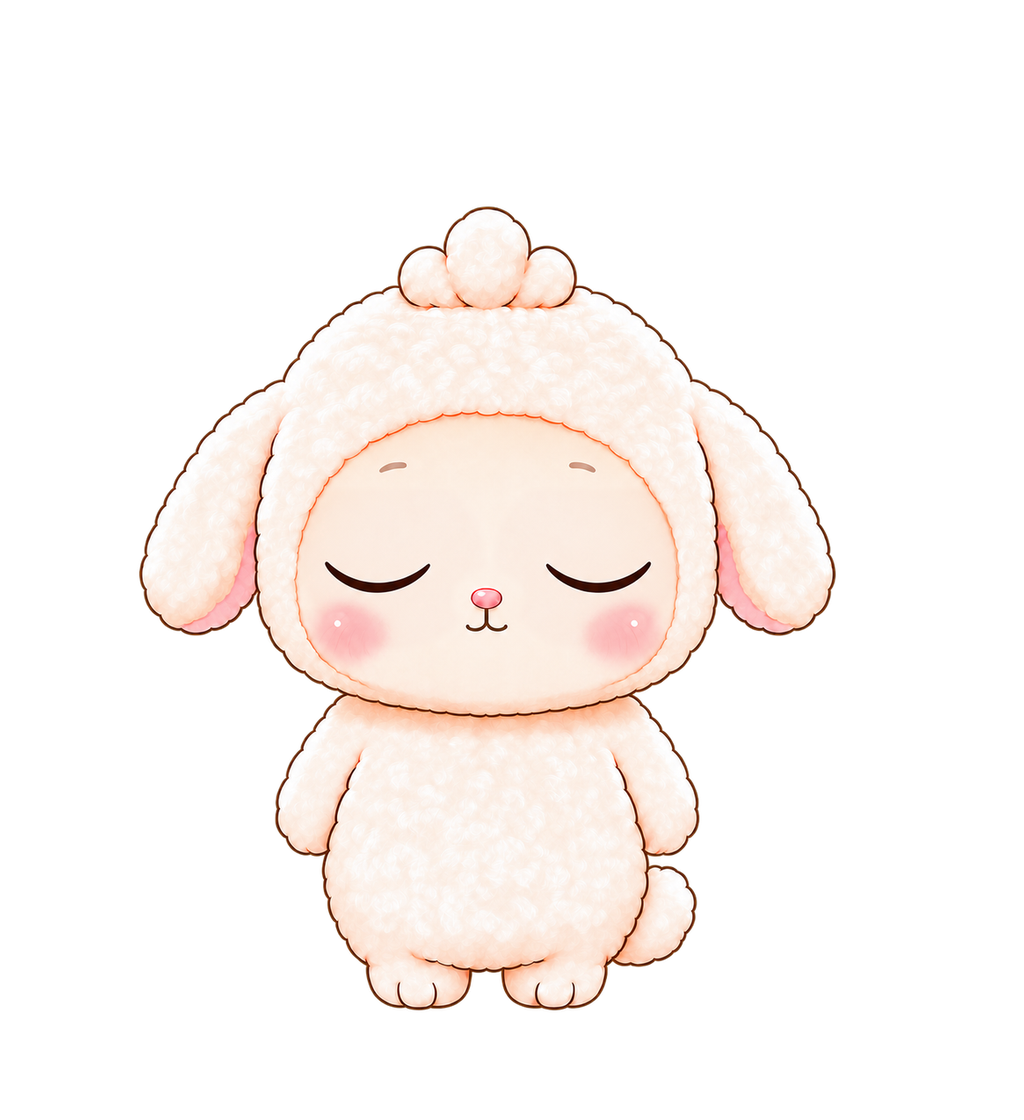
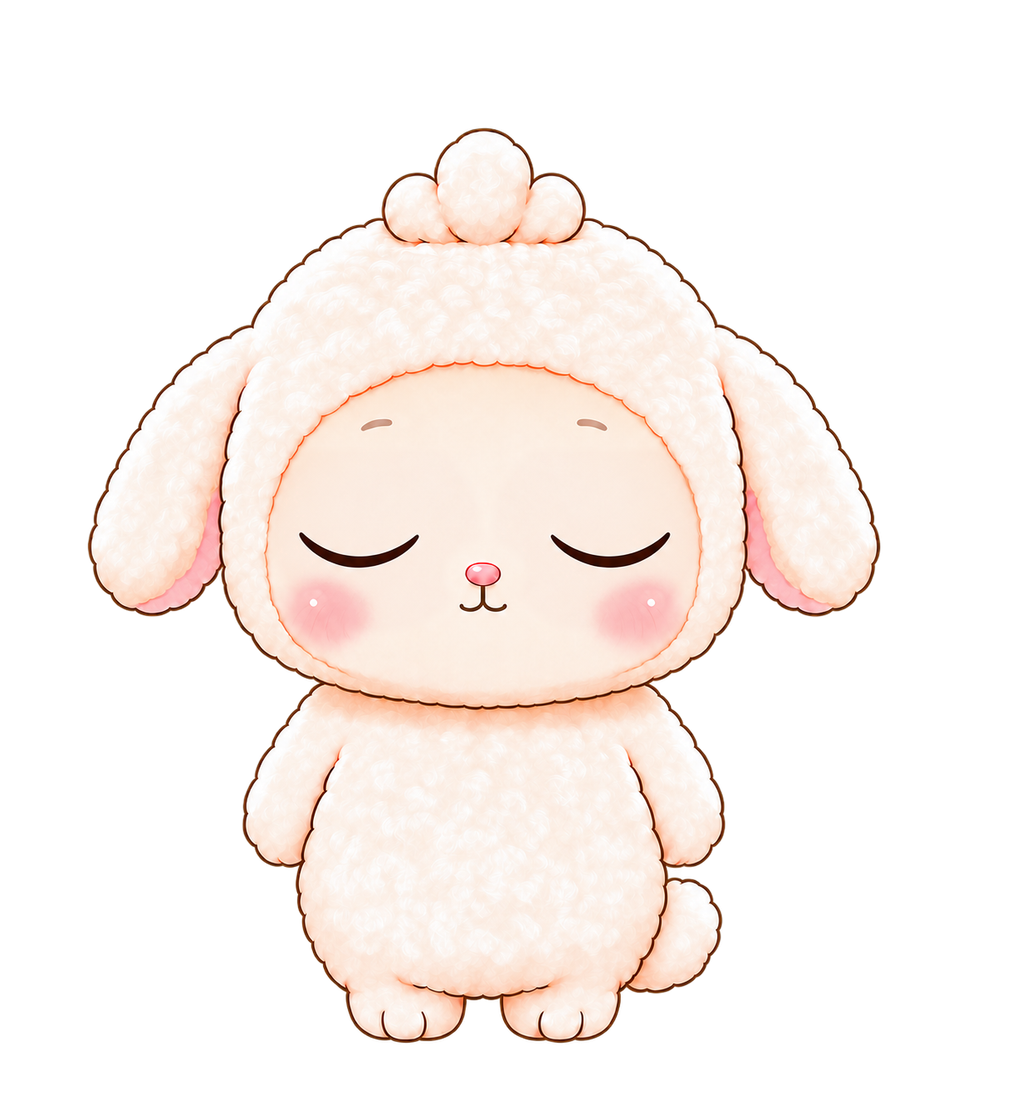
Improve mini Maro clarity, align poses, and follow scrolling safely

diff --git a/mini-maro-space.js b/mini-maro-space.js
@@ -1,0 +1,158 @@
+const MARGIN = 8;
+const GRID = 24;
+const clamp = (value, min, max) => Math.max(min, Math.min(max, value));
+const distance = (a, b) => Math.hypot(a.x - b.x, a.y - b.y);
+export function canStand(point, obstacles, viewport, size) {
+  if (!point || point.x < MARGIN || point.y < MARGIN || point.x + size.width > viewport.width - MARGIN || point.y + size.height > viewport.height - MARGIN) return false;
+  return !obstacles.some(r => point.x < r.right && point.x + size.width > r.left && point.y < r.bottom && point.y + size.height > r.top);
+}
+export function clearPath(a, b, obstacles, viewport, size) {
+  if (!canStand(a, obstacles, viewport, size) || !canStand(b, obstacles, viewport, size)) return false;
+  // Sweep the entire character rectangle, including between animation frames.
+  return !obstacles.some(r => {
+    const box = {left:r.left - size.width, right:r.right, top:r.top - size.height, bottom:r.bottom};
+    let enter = 0, leave = 1;
+    for (const [axis, min, max] of [['x',box.left,box.right],['y',box.top,box.bottom]]) {
+      const delta = b[axis] - a[axis];
+      if (Math.abs(delta) < 0.0001) {if (a[axis] <= min || a[axis] >= max) return false;}
+      else {const one=(min-a[axis])/delta, two=(max-a[axis])/delta;enter=Math.max(enter,Math.min(one,two));leave=Math.min(leave,Math.max(one,two));if(enter>=leave)return false;}
+    }
+    return enter < leave;
+  });
+}
+function axisPoints(max, extras) {
+  if (max < MARGIN) return [];
+  const points = [MARGIN,max,...extras.map(value => clamp(value,MARGIN,max))];
+  for (let value=MARGIN+GRID; value<max; value+=GRID) points.push(value);
+  return [...new Set(points)].sort((a,b)=>a-b);
+}
+export function safeRoute(start, preferred, obstacles, viewport, size) {
+  const xs=axisPoints(viewport.width-size.width-MARGIN,[start.x,preferred.x]);
+  const ys=axisPoints(viewport.height-size.height-MARGIN,[start.y,preferred.y]);
+  const nodes=xs.flatMap((x,xi)=>ys.map((y,yi)=>({x,y,xi,yi})));
+  const free=nodes.map(node=>canStand(node,obstacles,viewport,size));
+  if(!canStand(start,obstacles,viewport,size)) {
+    const available=nodes.filter((_,index)=>free[index]);
+    available.sort((a,b)=>distance(a,start)-distance(b,start));
+    return available.length?{position:available[0],path:[],relocated:true}:null;
+  }
+  const first=nodes.findIndex(node=>node.x===start.x&&node.y===start.y);
+  if(first<0)return null;
+  const parents=new Map([[first,-1]]),queue=[first];let best=first;
+  for(let cursor=0;cursor<queue.length;cursor++){
+    const id=queue[cursor],current=nodes[id];
+    if(distance(current,preferred)<distance(nodes[best],preferred))best=id;
+    for(const [dx,dy] of [[0,-1],[0,1],[-1,0],[1,0],[-1,-1],[-1,1],[1,-1],[1,1]]){
+      const xi=current.xi+dx,yi=current.yi+dy;
+      if(xi<0||yi<0||xi>=xs.length||yi>=ys.length)continue;
+      const next=xi*ys.length+yi;
+      if(parents.has(next)||!free[next]||!clearPath(current,nodes[next],obstacles,viewport,size))continue;
+      parents.set(next,id);queue.push(next);
+    }
+  }
+  const path=[];
+  for(let id=best;id!==first&&id!==-1;id=parents.get(id))path.unshift({x:nodes[id].x,y:nodes[id].y});
+  // Remove grid corners when the direct, swept route is also clear.
+  const smooth=[];let from=start;
+  while(path.length){let far=path.length-1;while(far>0&&!clearPath(from,path[far],obstacles,viewport,size))far--;from=path[far];smooth.push(from);path.splice(0,far+1);}
+  return {position:start,path:smooth,relocated:false};
+}
+
+export function collectObstacles(root, character, viewport) {
+  const rectangles=[];
+  const excluded=node=>character.contains(node)||node.closest?.('.mini-maro-home,script,style,noscript,template');
+  const add=rect=>{if(rect.width<=0||rect.height<=0||rect.right<0||rect.left>viewport.width||rect.bottom<0||rect.top>viewport.height)return;
+    rectangles.push({left:rect.left-6,right:rect.right+6,top:rect.top-6,bottom:rect.bottom+6});};
+  const walker=document.createTreeWalker(root,NodeFilter.SHOW_TEXT);
+  const range=document.createRange();
+  while(walker.nextNode()){
+    const node=walker.currentNode;
+    if(!node.textContent.trim()||excluded(node.parentElement))continue;
+    range.selectNodeContents(node);
+    for(const rect of range.getClientRects())add(rect);
+  }
+  for(const node of root.querySelectorAll('img,video,canvas,iframe,svg,button,input,select,textarea,a,[role="button"],[role="tab"],[data-mini-maro-avoid],.guide-navigation')){
+    if(excluded(node))continue;
+    for(const rect of node.getClientRects())add(rect);
+  }
+  // Future photos may be CSS backgrounds rather than <img> elements.
+  for(const node of root.querySelectorAll('*')){
+    if(excluded(node))continue;
+    const rect=node.getBoundingClientRect();
+    if(rect.width<=0||rect.height<=0||rect.right<0||rect.left>viewport.width||rect.bottom<0||rect.top>viewport.height)continue;
+    if(getComputedStyle(node).backgroundImage!=='none')add(rect);
+  }
+  return rectangles;
+}
+
+export function createMaroFollower({button,home,onVisibility,onMoving,onNeedWalk,canMove}) {
+  const size={width:80,height:88};
+  const events=new AbortController();
+  let position,obstacles=[],viewport,raf=0,wakeTimer=0,dirty=true,following=false,visible=false,destroyed=false;
+  let path=[],speed=0,lastFrame=0,followAfter=0,lastScroll=-Infinity,lastScrollY=window.scrollY,scrollDirection='right';
+  let scrollOffset=0,offsetUntil=0,blockedAt=null;
+  const preferred=()=>({x:viewport.width-size.width-20,y:clamp(viewport.height-size.height-80+scrollOffset,8,viewport.height-size.height-8)});
+  const show=value=>{button.dataset.safe=String(value);if(visible===value)return;visible=value;onVisibility(value);};
+  const queue=()=>{if(!destroyed&&!raf)raf=requestAnimationFrame(step);};
+  const refresh=()=>{dirty=true;button.dataset.safe='false';queue();};
+  const place=()=>{
+    const density=window.devicePixelRatio||1;
+    button.style.left=`${Math.round(position.x*density)/density}px`;
+    button.style.top=`${Math.round(position.y*density)/density}px`;
+  };
+  const later=delay=>{clearTimeout(wakeTimer);wakeTimer=setTimeout(queue,Math.max(16,delay));};
+  function step(now) {
+    raf=0;
+    if(destroyed||document.hidden){show(false);onMoving(false);return;}
+    viewport={width:document.documentElement.clientWidth,height:window.innerHeight};
+    if(scrollOffset&&now>=offsetUntil){scrollOffset=0;path=[];}
+    if(dirty){obstacles=collectObstacles(document.body,button,viewport);dirty=false;path=[];}
+    if(!position){const rect=home.getBoundingClientRect();position={x:rect.left,y:rect.top};}
+    const target=preferred();
+    if(!canStand(position,obstacles,viewport,size)){
+      show(false);onMoving(false);speed=0;
+      if(blockedAt===null)blockedAt=now;
+      if(now<blockedAt+180){later(blockedAt+180-now);return;}
+      if(now<followAfter){later(followAfter-now);return;}
+      const route=safeRoute(position,target,obstacles,viewport,size);
+      if(!route)return;
+      position={x:route.position.x,y:route.position.y};path=[];
+    }
+    blockedAt=null;
+    place();show(true);
+    if(!following){onMoving(false);return;}
+    if(now<followAfter){onMoving(false);later(followAfter-now);return;}
+    if(!canMove()){onMoving(false);return;}
+    if(!path.length){const route=safeRoute(position,target,obstacles,viewport,size);path=route?.path||[];}
+    if(!path.length){onMoving(false);speed=0;lastFrame=now;if(scrollOffset)later(offsetUntil-now);return;}
+    if(matchMedia('(prefers-reduced-motion: reduce)').matches){show(false);onMoving(false);return;}
+    const dt=lastFrame?Math.max(0,Math.min(0.04,(now-lastFrame)/1000)):1/60;lastFrame=now;
+    speed=Math.min(115,speed+dt*380);
+    const next=path[0],remaining=distance(position,next);
+    const travel=Math.min(remaining,speed*dt);
+    const candidate={x:position.x+(next.x-position.x)*travel/Math.max(remaining,0.001),y:position.y+(next.y-position.y)*travel/Math.max(remaining,0.001)};
+    if(!clearPath(position,candidate,obstacles,viewport,size)){refresh();onMoving(false);return;}
+    const direction=candidate.x<position.x-0.01?'left':candidate.x>position.x+0.01?'right':scrollDirection;
+    position=candidate;place();onMoving(true,direction);
+    if(remaining<=travel+0.01)path.shift();
+    queue();
+  }
+  const scroll=()=>{
+    const now=performance.now(),delta=window.scrollY-lastScrollY;lastScrollY=window.scrollY;
+    if(delta)scrollDirection=delta<0?'left':'right';
+    if(now-lastScroll>220)followAfter=now+180;
+    lastScroll=now;following=true;onNeedWalk();
+    scrollOffset=clamp(scrollOffset-delta*0.35,-96,96);offsetUntil=now+1000;
+    refresh();
+  };
+  window.addEventListener('scroll',scroll,{capture:true,passive:true,signal:events.signal});
+  window.addEventListener('resize',refresh,{passive:true,signal:events.signal});
+  document.addEventListener('load',refresh,{capture:true,signal:events.signal});
+  document.addEventListener('visibilitychange',refresh,{signal:events.signal});
+  const mutations=new MutationObserver(records=>{if(records.some(record=>!button.contains(record.target)&&record.target!==home))refresh();});
+  mutations.observe(document.body,{subtree:true,childList:true,characterData:true,attributes:true,attributeFilter:['class','style','hidden','open','src','width','height']});
+  const resize=new ResizeObserver(refresh);resize.observe(document.body);resize.observe(document.getElementById('content')||document.body);
+  document.fonts?.addEventListener('loadingdone',refresh,{signal:events.signal});
+  queue();
+  return {refresh,destroy(){destroyed=true;cancelAnimationFrame(raf);clearTimeout(wakeTimer);events.abort();mutations.disconnect();resize.disconnect();show(false);}};
+}

diff --git a/mini-maro.js b/mini-maro.js
@@ -1,4 +1,5 @@
 import {PET_ENTRY, PET_RETURN, duration, frameAt, idleMotion} from './mini-maro-motion.js';
+import {createMaroFollower} from './mini-maro-space.js?v=follow-14';
 
 const ROOT = new URL('./assets/mini-maro/', import.meta.url);
 const SHEETS = {standing:'standing.webp', pet:'banzai.webp', heart:'heart.webp', 'high-five':'high-five.webp'};
@@ -9,7 +10,8 @@ export function createMiniMaro({random = Math.random, idleDelay = () => 20000 + 
   // Decide once per document, including history restores. A page without Maro loads no artwork.
   const selected = random() < 0.35;
   const images = new Map();
-  let button, canvas, ctx, host, events, observer, timer, raf, blinkTimer, blinkRaf, blinkImages, kind = 'standing';
+  let button, canvas, ctx, host, home, events, follower, timer, raf, blinkTimer, blinkRaf, blinkImages, kind = 'standing';
+  let walkImages, walkLoading, walkDirection='right';
   let generation = 0, mountGeneration = 0, inView = false, ready = false, started = 0, petHoldUntil = 0, motion;
   const image = path => {
     if (!images.has(path)) {
@@ -25,12 +27,27 @@ export function createMiniMaro({random = Math.random, idleDelay = () => 20000 + 
   const active = () => ready && button?.isConnected && inView && !document.hidden;
   const draw = (state, frame = 0) => {
     if (!ctx) return;
+    // Render once at the screen's actual pixel density. A large fixed canvas
+    // shrunk again by CSS loses fine fur and face lines with low-quality sampling.
+    const bounds = canvas.getBoundingClientRect();
+    const density = Math.min(6, Math.max(1, window.devicePixelRatio || 1));
+    const width = Math.max(1, Math.round(bounds.width * density));
+    const height = Math.max(1, Math.round(bounds.height * density));
+    if (canvas.width !== width || canvas.height !== height) {
+      canvas.width = width; canvas.height = height;
+      ctx.setTransform(width / 512, 0, 0, height / 560, 0, 0);
+      ctx.imageSmoothingEnabled = true;
+      ctx.imageSmoothingQuality = 'high';
+    }
     ctx.clearRect(0, 0, 512, 560);
     if (state === 'blink') {
       ctx.drawImage(blinkImages[frame], 0, 0, 512, 560);
     } else if (state === 'cheek') {
-      // Same whole-cel registration as the adopted room animation, aligned to the 512px body.
-      ctx.drawImage(motion.images.get(frame), -38, -2, 560, 560);
+      // A fixed whole-body registration: same crown, face midpoint and soles as standing.
+      ctx.drawImage(motion.images.get(frame), -35.208, 11.970, 554.991, 554.991);
+    } else if (state === 'walk') {
+      // Undo the native overlay's common registration margin, without warping the body.
+      ctx.drawImage(walkImages[walkDirection][frame], -35.271111, -53.495935, 582.542222, 637.398374);
     } else {
       ctx.drawImage(motion?.image && state !== 'standing' ? motion.image : standingImage,
         frame * 512, 0, 512, 560, 0, 0, 512, 560);
@@ -53,7 +70,7 @@ export function createMiniMaro({random = Math.random, idleDelay = () => 20000 + 
       blinkTimer = 0;
       const token = generation;
       try {
-        const [half, closed] = await Promise.all([image('blink-half.webp'), image('blink-closed.webp')]);
+        const [half, closed] = await Promise.all([image('standing-blink-half.webp'), image('standing-blink-closed.webp')]);
         if (token !== generation || !active() || kind !== 'standing') return;
         blinkImages = {half, closed};
         const began = performance.now();
@@ -76,14 +93,15 @@ export function createMiniMaro({random = Math.random, idleDelay = () => 20000 + 
   };
   const tick = now => {
     if (!active()) {rest(); return;}
-    const elapsed = now - started;
+    const elapsed = Math.max(0, now - started);
     const reduced = matchMedia('(prefers-reduced-motion: reduce)').matches;
     let frame;
-    if (reduced) frame = elapsed < 1800 ? ({pet:7, heart:5, 'high-five':5, cheek:'happy_full'})[kind] : null;
+    if (kind === 'walk') frame = Math.floor(elapsed / 120) % 8;
+    else if (reduced) frame = elapsed < 1800 ? ({pet:7, heart:5, 'high-five':5, cheek:'happy_full'})[kind] : null;
     else if (kind === 'pet') frame = elapsed < ENTRY_MS ? frameAt(PET_ENTRY, elapsed)
       : now < petHoldUntil ? 7 : frameAt(PET_RETURN, now - petHoldUntil);
     else frame = frameAt(motion.timeline, elapsed);
-    if (frame === null) {rest(); return;}
+    if (frame === null) {rest(); follower?.refresh(); return;}
     draw(kind, frame); raf = requestAnimationFrame(tick);
   };
   async function play(next) {
@@ -105,7 +123,7 @@ export function createMiniMaro({random = Math.random, idleDelay = () => 20000 + 
     }
   }
   const activity = () => {
-    if (kind !== 'standing' && kind !== 'pet') rest();
+    if (kind !== 'standing' && kind !== 'pet' && kind !== 'walk') rest();
     else schedule();
   };
   const pet = () => {
@@ -115,11 +133,26 @@ export function createMiniMaro({random = Math.random, idleDelay = () => 20000 + 
     }
     if (kind !== 'pet') void play({kind:'pet'});
   };
+  async function prepareWalk() {
+    if(walkImages||walkLoading)return;
+    walkLoading=Promise.all(['left','right'].map(async direction=>[direction,await Promise.all(
+      Array.from({length:8},(_,index)=>image(`walk/${direction}_${String(index+1).padStart(2,'0')}.webp`))
+    )]));
+    try {walkImages=Object.fromEntries(await walkLoading);}
+    catch { /* Retry on a later scroll; standing artwork remains available. */ }
+    finally {walkLoading=null;follower?.refresh();}
+  }
+  const walking = (moving,direction) => {
+    if(!moving){if(kind==='walk')rest();return;}
+    if(!walkImages||kind==='pet')return;
+    walkDirection=direction;
+    if(kind!=='walk'){cancel();kind='walk';motion=null;started=performance.now();raf=requestAnimationFrame(tick);}
+  };
   function unmount() {
     mountGeneration++;
-    cancel(); ready = false; inView = false; events?.abort(); observer?.disconnect();
-    host?.classList.remove('mini-maro-host'); button?.remove();
-    button = canvas = ctx = host = null; kind = 'standing'; motion = null;
+    cancel(); ready = false; inView = false; events?.abort(); follower?.destroy();follower=null;
+    host?.classList.remove('mini-maro-host'); home?.remove();button?.remove();
+    button = canvas = ctx = host = home = null; kind = 'standing'; motion = null;
   }
   async function mount(content) {
     unmount();
@@ -131,23 +164,25 @@ export function createMiniMaro({random = Math.random, idleDelay = () => 20000 + 
     button.setAttribute('aria-label', 'みにまろちゃんをなでなでする');
     button.dataset.motion = 'loading';
     canvas = document.createElement('canvas'); canvas.width = 512; canvas.height = 560; canvas.setAttribute('aria-hidden','true');
-    button.append(canvas); host.append(button); host.classList.add('mini-maro-host');
+    home=document.createElement('span');home.className='mini-maro-home';home.setAttribute('aria-hidden','true');
+    button.append(canvas);host.append(home);document.body.append(button);host.classList.add('mini-maro-host');
     ctx = canvas.getContext('2d');
     events = new AbortController();
     button.addEventListener('click', pet, {signal:events.signal});
     for (const event of ['pointerdown','pointermove','keydown','scroll'])
       window.addEventListener(event, activity, {passive:true, signal:events.signal});
+    window.addEventListener('resize', () => {
+      if (ready) draw(button.dataset.motion, kind === 'cheek' || button.dataset.motion === 'blink'
+        ? button.dataset.frame : Number(button.dataset.frame));
+    }, {signal:events.signal});
     document.addEventListener('visibilitychange', () => {if (document.hidden) rest(); else {schedule(); scheduleBlink();}}, {signal:events.signal});
     window.addEventListener('pagehide', rest, {signal:events.signal});
-    observer = new IntersectionObserver(entries => {
-      inView = entries[0].isIntersecting;
-      if (!inView) rest(); else {schedule(); scheduleBlink();}
-    });
-    observer.observe(button);
     try {
       standingImage = await image(SHEETS.standing);
       if (token !== mountGeneration) return;
       ready = true; button.dataset.ready = 'true'; draw('standing'); schedule(); scheduleBlink();
+      follower=createMaroFollower({button,home,onNeedWalk:()=>{void prepareWalk();},canMove:()=>!!walkImages&&kind!=='pet',
+        onMoving:walking,onVisibility:visible=>{inView=visible;if(!visible)rest();else{schedule();scheduleBlink();}}});
     } catch {if (token === mountGeneration) unmount();}
   }
   return {mount, unmount};

diff --git a/styles.css b/styles.css
@@ -39,11 +39,12 @@
 .guide-section h3{font-size:1.1rem;font-weight:600;margin-bottom:.75rem}.spot-guide+.spot-guide{margin-top:4rem}
 .guide-figure{margin:1.7rem 0 0}.guide-photo{display:block;width:100%;height:auto;border-radius:8px;background:var(--light)}
 .guide-figure figcaption{font-size:.7rem;color:var(--muted);line-height:1.7;margin-top:.5rem}.guide-figure a{color:var(--muted);text-underline-offset:3px}
-.mini-maro{display:block;flex:0 0 80px;width:80px;height:88px;align-self:center;margin:0 0 0 auto;padding:0;border:0;border-radius:8px;background:transparent;cursor:pointer;overflow:hidden;touch-action:manipulation;visibility:hidden}
-.mini-maro[data-ready=true]{visibility:visible}.mini-maro canvas{display:block;width:100%;height:100%;pointer-events:none}
+.mini-maro-home{display:block;flex:0 0 80px;width:80px;height:88px;align-self:center;margin:0 0 0 auto}
+.mini-maro{display:block;position:fixed;left:0;top:0;z-index:2;width:80px;height:88px;margin:0;padding:0;border:0;border-radius:8px;background:transparent;cursor:pointer;overflow:hidden;touch-action:manipulation;visibility:hidden}
+.mini-maro[data-ready=true][data-safe=true]{visibility:visible}.mini-maro canvas{display:block;width:100%;height:100%;pointer-events:none}
 .mini-maro:focus-visible{outline:2px solid #075d9b;outline-offset:3px}
 .guide-header.mini-maro-host{display:grid;grid-template-columns:minmax(0,1fr) 80px;column-gap:1rem}
-.guide-header.mini-maro-host> :not(.mini-maro){grid-column:1;min-width:0}
-.guide-header.mini-maro-host>.mini-maro{grid-column:2;grid-row:1/4;align-self:center}
-@media(min-width:1300px){.mini-maro{position:fixed;left:calc(50% + 558px);bottom:24px;margin:0;z-index:2}.guide-header.mini-maro-host{display:block}}
-@media print{.mini-maro{display:none!important}.guide-header.mini-maro-host{display:block}}
+.guide-header.mini-maro-host> :not(.mini-maro-home){grid-column:1;min-width:0}
+.guide-header.mini-maro-host>.mini-maro-home{grid-column:2;grid-row:1/4;align-self:center}
+@media(min-width:1300px){.mini-maro-home{position:fixed;left:calc(50% + 558px);bottom:24px;margin:0}.guide-header.mini-maro-host{display:block}}
+@media print{.mini-maro,.mini-maro-home{display:none!important}.guide-header.mini-maro-host{display:block}}

diff --git a/index.html b/index.html
@@ -8,8 +8,8 @@
   <meta name="theme-color" content="#234b49">
   <meta http-equiv="Content-Security-Policy" content="default-src 'self'; script-src 'self'; style-src 'self'; img-src 'self' data: https:; connect-src 'self'; object-src 'none'; base-uri 'none'; form-action 'none'">
   <title>旅のしおり</title>
-  <link rel="stylesheet" href="styles.css?v=mini-maro-12">
-  <script type="module" src="app.js?v=mini-maro-12"></script>
+  <link rel="stylesheet" href="styles.css?v=mini-maro-follow-14">
+  <script type="module" src="app.js?v=mini-maro-follow-14"></script>
 </head>
 <body>
   <a class="skip" href="#content">予定へ移動</a>

diff --git a/app.js b/app.js
@@ -1,6 +1,6 @@
 'use strict';
 import { readRemembered, saveRemembered, forgetRemembered } from './remember.js';
-import { createMiniMaro } from './mini-maro.js';
+import { createMiniMaro } from './mini-maro.js?v=follow-quality-14';
 const miniMaro = createMiniMaro();
 const gate = document.getElementById('gate');
 const opening = document.getElementById('opening');

diff --git a/README.md b/README.md
@@ -33,18 +33,28 @@ Do not add confidential or identifying data to this viewer.
 Deploy the repository root with GitHub Pages. No package installation or
 custom GitHub Actions workflow is required. Serve over HTTPS for Web Crypto.
 
-A stationary mini Maro appears on 35% of page loads. Tapping plays the adopted
+A mini Maro appears on 35% of page loads. Tapping plays the adopted
 petting banzai; after 20–35 seconds without interaction, a random heart hug,
 high-five, or cheek rub plays. Reading interaction interrupts idle gestures.
 Artwork is loaded only when selected, with gesture assets loaded on demand.
-Wide screens use the outer page gutter; narrow screens reserve normal layout
-space beside the route or guide heading, including after content is added.
+After a short delay on scroll, Maro follows at a gentle running pace, up to
+115 CSS pixels per second with gradual acceleration and 120ms walking cels.
+Text line rectangles, photos, media and interactive controls are detected from
+the current DOM. Routes are checked across the full character footprint.
+Mutation, resize, scroll and media-load observers recheck added or changed content.
+When no safe space or route exists, Maro waits or hides until space is available.
+The original header slot remains reserved. Reduced motion skips running.
 Standing Maro blinks at random 3–7 second intervals using adopted whole cels.
+The canvas matches the display's pixel density and uses high-quality image
+resampling directly to its displayed size, retaining fine facial and fur detail.
 Reduced-motion settings use a still pose and skip automatic blinking.
 
 Maro artwork is copied unchanged from adopted assets at source commit
 `79737822383ce1fe933182af23346c7b6bb5e883`: standing, pet-banzai-v1,
-heart-hug-v3, paw-wave-v1, and cheek-circles-soft-arms-v6. No walking or audio.
+heart-hug-v3, paw-wave-v1, cheek-circles-soft-arms-v6, Web standing blink,
+and native gait-v3 left/right running cels. Whole-body registration aligns all
+states with the original standing artwork without changing individual body parts.
+No audio.
 
 Files: `index.html`, `styles.css`, `app.js`, `remember.js`, encrypted `payload.json`,
-`mini-maro.js`, `mini-maro-motion.js`, and `assets/mini-maro/`.
+`mini-maro.js`, `mini-maro-motion.js`, `mini-maro-space.js`, and `assets/mini-maro/`.
